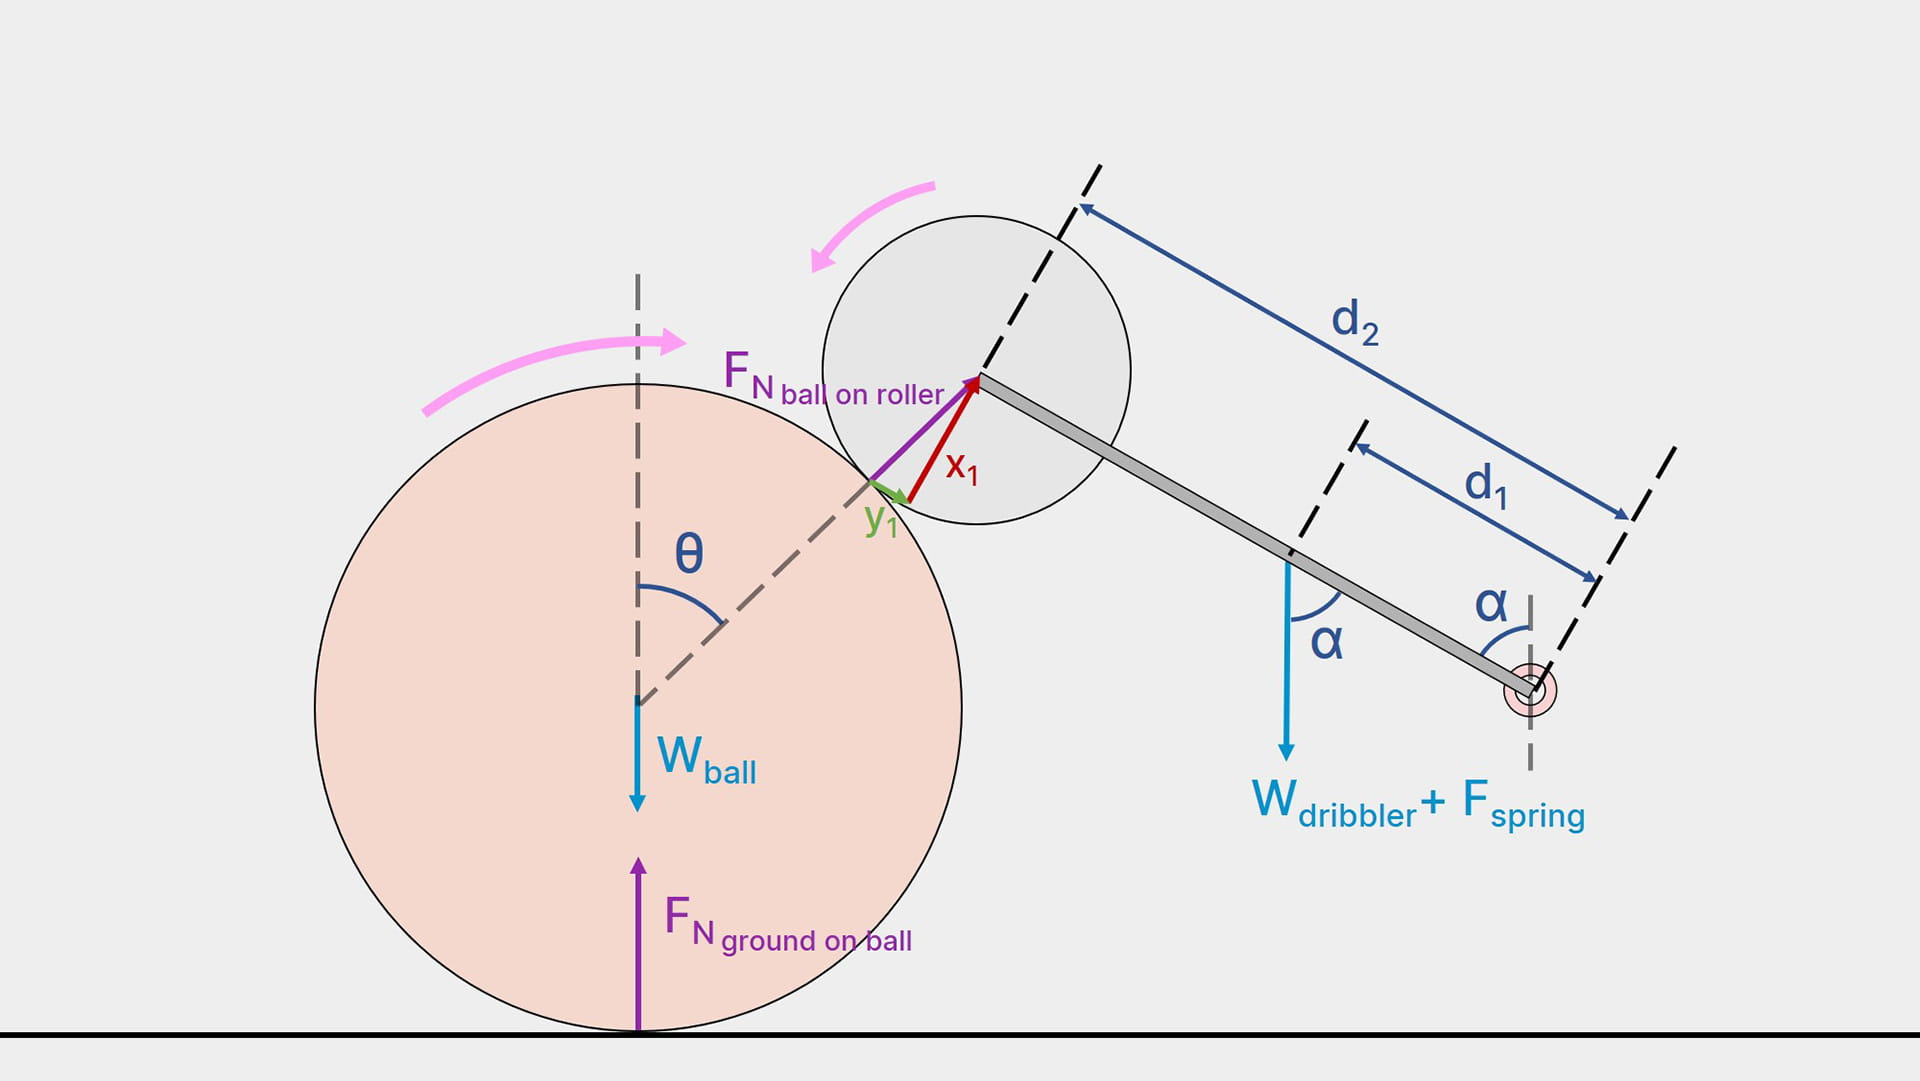
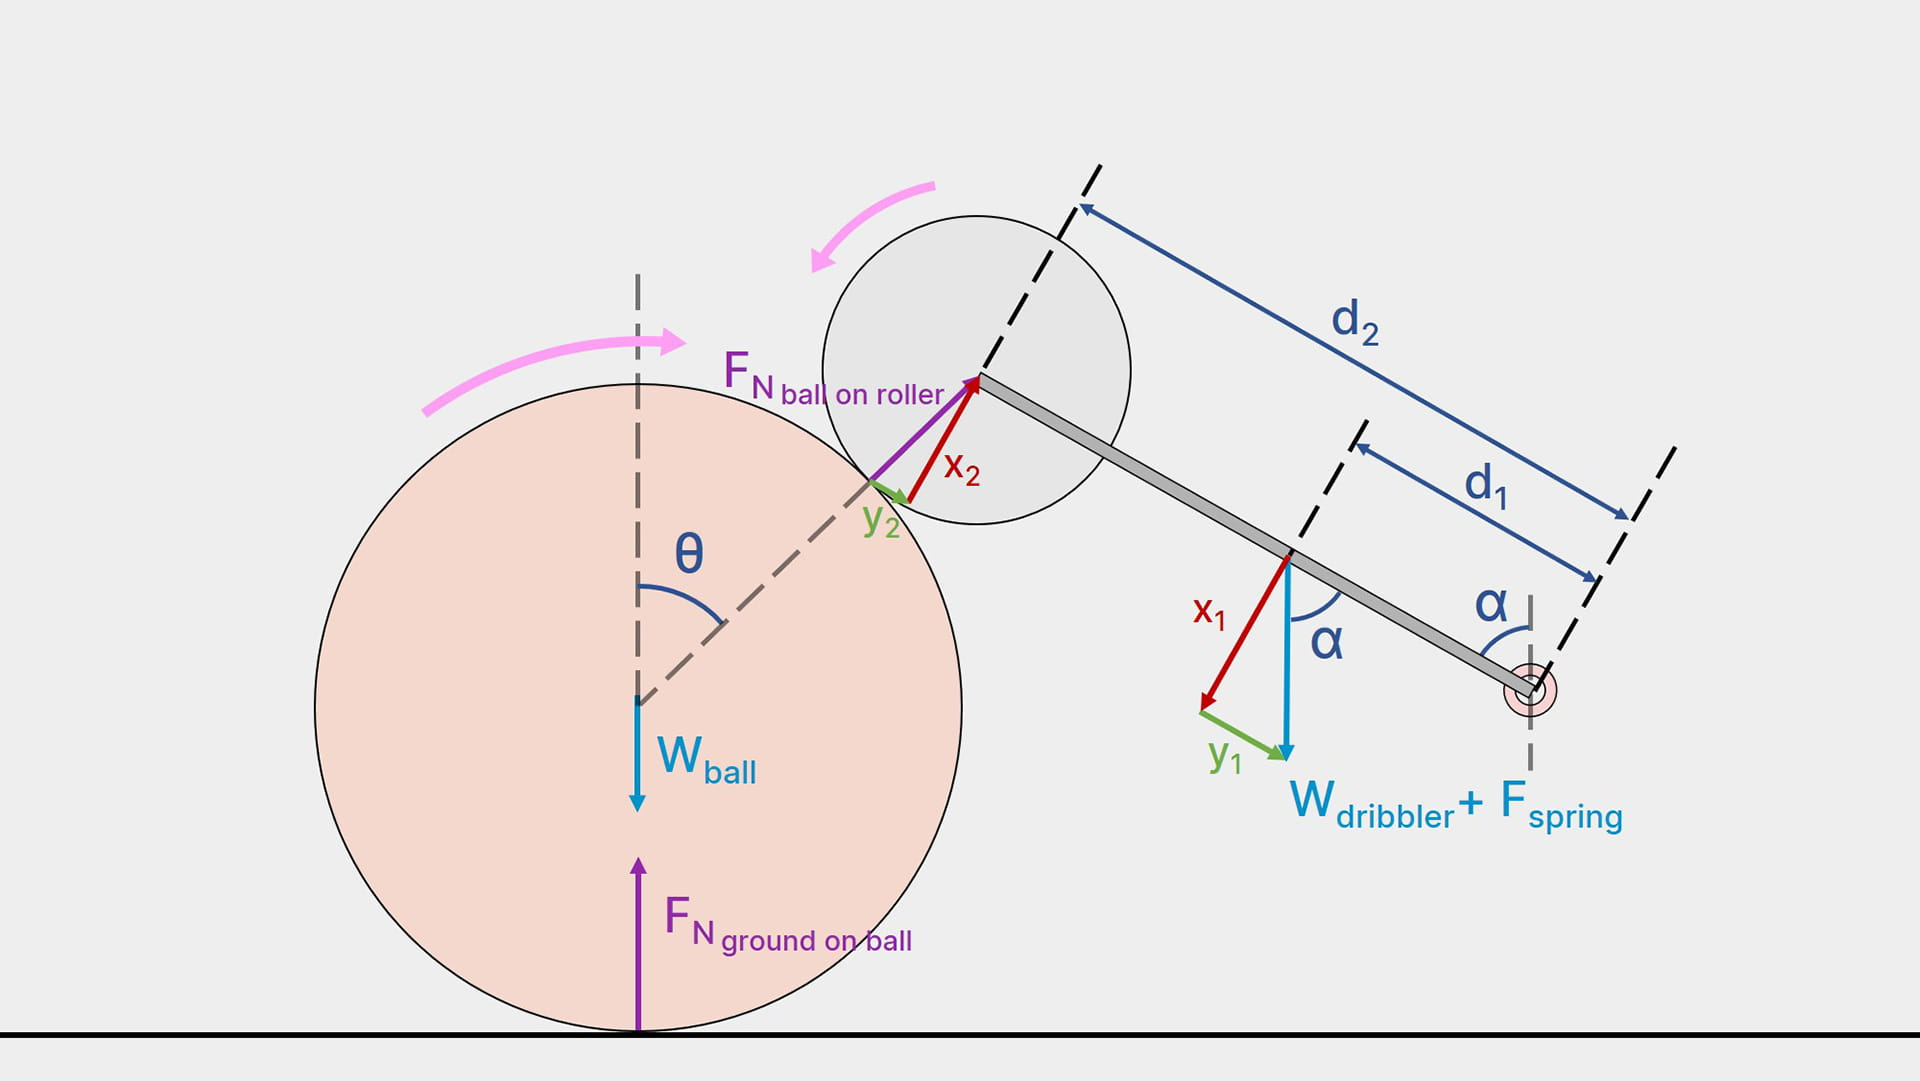
wrote dribbler + fixed math/accordion

diff --git a/assets/css/main.scss b/assets/css/main.scss
@@ -74,6 +74,9 @@ h5,
 h6 {
   font-weight: 600;
 }
+h3 {
+  font-size: 1.125rem;
+}
 blockquote {
   margin: 1em 1em 1em 0;
 }
@@ -174,11 +177,18 @@ input:checked {
     + .tab-label {
         &::before {
             transform: rotate(90deg);
-            margin-top: 0.2em;
+            margin-top: 0.25em;
         }
     }
     ~ .tab-content {
-        max-height: 100vh;
+        max-height: 10000vh;
     }
+}
+
+/* Katex rendering */
+span.katex {
+    display: block;
+    text-align: center;
+    margin-bottom: 1em;
 }
   

diff --git a/_includes/head/custom.html b/_includes/head/custom.html
@@ -27,9 +27,7 @@
 {% assign highlight = false %}
 {% endif %}
 
-{% if page.math %}
 <link rel="stylesheet" href="https://cdn.jsdelivr.net/npm/katex@0.11.1/dist/katex.min.css" integrity="sha384-zB1R0rpPzHqg7Kpt0Aljp8JPLqbXI3bhnPWROx27a9N0Ll6ZP/+DiW/UqRcLbRjq" crossorigin="anonymous">
-{% endif %}
 
 <!-- insert favicons. use https://realfavicongenerator.net/ -->
 <link rel="icon" href="/assets/images/eagle ver 2.1.3.1-lowres.jpg">

diff --git a/_open/02.4-open-dribbler.md b/_open/02.4-open-dribbler.md
@@ -73,7 +73,7 @@ A dribbler works by having a fast moving roller that imparts backspin on the bal
 
 {% include gallery id="gallery1a" caption="Free Body Diagram of our dribbler" layout="single" %}
 
-This is free body diagram of a dribbler during an initial state of contact, assuming no objects are moving. By analysing this, we can find out the effect of changing specific aspects of the dribbler.
+This is a simplified free body diagram of a dribbler. The dribbler module is condensed into a simple lever system and the force of the spring is assumed to come from the same point as the dribbler's weight for easier calculations. To understand the effect of changing specific aspects of the dribbler intuitively with minimal math, read on; otherwise, here's the mathematical approach to this.
 
 ### Roller Position 
 
@@ -83,22 +83,11 @@ The angle of the dribbler's rollers relative to the ball (value of θ) directly 
 
 {% include gallery id="gallery1c" caption="FBD when θ is small (high roller position)" layout="single" %}
 
-If the value of θ is smaller (rollers are positioned higher up the ball), assuming the pivot angle, α, remains the same, the normal contact force between the ball and roller, *F<sub>N:ball on roller</sub>*, would increase. This is because if we look at the downwards force created from *W<sub>dribbler</sub>+F<sub>spring</sub>* located at the end of the lever (blue arrow), the magnitude of the component parallel to *F<sub>N:ball on roller</sub>* (red arrow, *x<sub>1</sub>*) increases.
+If the value of *θ* is smaller (rollers are positioned higher up the ball), assuming the pivot angle, α, remains the same, the normal contact force between the ball and roller, *F<sub>N:ball on roller</sub>*, would increase. This is because if we look at the component of *W<sub>dribbler</sub>+F<sub>spring</sub>* that is perpendicular to the lever (red arrow, *x<sub>1,</sub>*), the magnitude of the corresponding component at the end of the lever (red arrow, *x<sub>2</sub>*) increases too.
 
-When *F<sub>N:ball on roller</sub>* increases, *F<sub>N:ground on ball</sub>* increases too. Hence, the friction between the ball and ground, *F<sub>S:ground on ball</sub>*, will become larger. Thus, the higher the rollers are, the greater the backwards force generated into pushing the ball into the catchment area. However, the larger friction between the ball and ground also means more torque will be required to spin the ball i.e. it becomes harder to spin the ball.
+When *F<sub>N:ball on roller</sub>* increases, *F<sub>N:ground on ball</sub>* increases too since there is more force pushing the ball downwards. Hence, the friction between the ball and ground, *F<sub>S:ground on ball</sub>*, will become larger. This means that the higher the rollers are, the greater the backwards force generated into pushing the ball into the catchment area. However, the larger friction between the ball and ground also means more torque will be required to spin the ball i.e. it becomes harder to spin the ball.
 
-The torque needed to spin the ball becomes "too much" when the magnitude of F<sub>S:ground on ball</sub> is larger than F<sub>S:roller on ball</sub>, since the friction from the ground that opposes the backspin of the ball is larger than the frction between the roller and ball. In such a case, the dribbler rollers will slip along the ball's surface.
-
-<div class="tabs">
-  <div class="tab">
-    <input type="checkbox" id="chck1">
-    <label class="tab-label" for="chck1">More math</label>
-    <div class="tab-content">
-      <br>
-      <p>Lorem ipsum dolor sit amet consectetur, adipisicing elit. Ipsum, reiciendis!</p>
-    </div>
-  </div>
-</div>
+The torque needed to spin the ball becomes "too much" when the magnitude of F<sub>S:ground on ball</sub> is larger than F<sub>S:roller on ball</sub>, since the friction from the ground that opposes the backspin of the ball is larger than the frction between the roller and ball. In such a case, the ball will become jammed and not spin, while the dribbler rollers will slip along the ball's surface.
 
 >Factor 1: The higher the roller is on the ball, the stronger it can hold onto the ball, but the harder it is for the ball to spin.
 
@@ -110,9 +99,9 @@ The height of the pivot point's position determines how well the dribbler can ab
 
 {% include gallery id="gallery2b" caption="FBD when pivot point is higher" %}
 
-The higher the pivot point, the harder it is for the incoming ball to lift the dribbler up. This is because the component that is perpendicular to *F<sub>N:ball on roller</sub>*, the red arrow, *x<sub>1</sub>*, becomes smaller. 
+The higher the pivot point, the harder it is for the incoming ball to lift the dribbler up. This is because the component that is perpendicular to the lever, the red arrow, *x<sub>2</sub>*, becomes smaller. 
 
-Also, the dribbler becomes less capable of absorbing the ball's impact since a larger proportion of *F<sub>N:ball on roller</sub>* is directed along the length of the dribbler (green arrow, *y<sub>1</sub>*), which is rigid, and would produce an equal and opposite reaction force that pushes the ball outwards.
+Also, the dribbler becomes less capable of absorbing the ball's impact since a larger proportion of *F<sub>N:ball on roller</sub>* is directed along the length of the dribbler (green arrow, *y<sub>2</sub>*), which is rigid, and would produce an equal and opposite reaction force that pushes the ball outwards.
 
 >Factor 2: The higher the pivot point, the harder it is to tilt the dribbler and the worse it is at absorbing impacts.
 
@@ -142,20 +131,6 @@ This should be quite intuitive. Regardless whether the spring is pushing the dri
 
 The necessity of the spring comes from it being able to provide an increasing downwards force the more the ball pushes into the dribbler module, thus ensuring that the rollers maintain contact with the ball.
 
-<div class="tabs">
-  <div class="tab">
-    <input type="checkbox" id="chck2">
-    <label class="tab-label" for="chck2">Physics concepts</label>
-    <div class="tab-content">
-      <br>
-      <p>Hooke's Law states that <em>F<sub>spring</sub> = -kx</em>, where <em>F<sub>spring</sub></em> is the restoring force, <em>k</em> is the spring constant, and <em>x</em> is the displacement of the spring after it is stretched/compressed.</p>
-      <p>Since <em>F<sub>spring</sub></em> is directly proportional to <em>k</em> and <em>x</em>, as the stiffness of the spring increases (as the value of <em>k</em> increases), the magnitude of <em>F<sub>spring</sub></em> increases linearly.</p>
-      <p>Also, as the dribbler is tilted further(as the value of <em>x</em> increases), caused by the ball's backwards force into the catchment area, the magnitude of <em>F<sub>spring</sub></em> increases linearly, opposing the force of the incoming ball and reducing its acceleration.</p>
-      <hr style="margin:0">
-    </div>
-  </div>
-</div>
-
 >Factor 4: The stiffer the spring, the harder it is to tilt the dribbler, but the stronger the adhesion between rollers and the ball when the ball is in a stable dribbling state.
 
 ### Ideal Dribbler
@@ -169,6 +144,55 @@ Based on the 4 key factors above, here is the design process for an ideal dribbl
 5. Place a spring of appropriate length such that it is mildly stretched/compressed when the dribbler is at rest, so that it provides a small constant downwards force on the dribbler, keeping it level.
 6. Tune the spring strength until it is strong enough that it can push/pull the dribbler down to keep the rollers in contact with the ball at all times, but weak enough that the
 
+<div class="tabs">
+  <div class="tab">
+    <input type="checkbox" id="chck1">
+    <label class="tab-label" for="chck1"><h3 id="mathematical-approach" style="margin-top:0">Mathematical Approach</h3></label>
+    <div class="tab-content" markdown="span">
+      Assume the dribbler is dribbling the ball in a state of dynamic equilibrium, the clockwise moments will equal the anti-clockwise moments about the pivot.
+      <br><br>
+      $$x_{1}=(W_{dribbler}+F_{spring}) \sin \alpha$$
+      $$x_2\cdot d_2=-x_1\cdot d_1$$
+      $$\begin{aligned}x_2=-\frac{(W_{dribbler}+F_{spring}) \sin \alpha\cdot d_1}{d_2}\end{aligned}$$
+      $$\begin{aligned}
+        F_{N_1}&=\frac{x_2}{\sin (\theta+\alpha-90)} \\
+        &=-\frac{(W_{dribbler}+F_{spring}) \sin \alpha\cdot d_1}{\sin (\theta+\alpha-90)\cdot d_2} \\
+        &=\frac{(W_{dribbler}+F_{spring}) \sin \alpha\cdot d_1}{\cos (\theta+\alpha)\cdot d_2}
+      \end{aligned}$$
+      Hence, supposing that *θ* and *α* are acute angles, they should both sum up to as close to 90 degrees as possible in order to maximise the normal contact force between the ball and rollers. 
+      This can be done by modifying the [roller position](#roller-position) (changes *θ*) or the [pivot height](#pivot-height) (changes *α*).
+      <br><br>
+      $$\begin{aligned}F_{S_1}=\mu_1 \cdot F_{N_1}\end{aligned}$$
+      where *μ<sub>1</sub>* is the rolling friction coefficient between the roller and ball (if the ball was stationary this would be the static friction coefficient). <br>
+      To maximise this coefficient, the roller needs to be rough and possibly slightly sticky to increase adhesion.
+      <br><br>
+      $$\begin{aligned}
+        F_{N_2}&=W_{ball}+F_{N_1}\cos \theta \\
+        F_{S_2}&=\mu_2 \cdot F_{N_2} 
+      \end{aligned}$$
+      It is clear that as *θ* decreases, cos *θ* approaches 1. Therefore, the higher up the ball the rollers are, the larger the normal force between the ground and ball, and the larger the friction between the ground and ball. <br>
+      Also, *μ<sub>2</sub>* is the coefficient of sliding friction between the ground and ball (similar to *μ<sub>1</sub>*, if the ball was stationary this would be the static friction coefficient instead). This should remain largely constant throughout the match.
+      <br><br>
+      For the ball to start spinning, the clockwise moment about the ball's centre, created by the rollers, must be larger than the anti-clockwise moment, created by the ground friction.
+      <br><br>
+      $$\begin{aligned}
+        F_{S_1}\cdot r_{ball} &> F_{S_2}\cdot r_{ball} \\
+        \mu_1 \cdot F_{N_1} &> \mu_2 \cdot F_{N_2} \\
+        &> \mu_2 \cdot (W_{ball}+F_{N_1}\cos \theta)
+      \end{aligned}$$
+      Evidently, as *θ* decreases, the anti-clockwise moment (R.H.S.) increases significantly. If the anti-clockwise moment becomes greater than the clockwise moment, then the ball will end up jammed into the dribbler without spinning, with the rollers slipping on the ball.
+      <br><br>
+      In addition, the spring is used to absorb impacts. Assuming the spring used is a linear rate spring, Hooke's Law applies,
+      <br><br>
+      $$\begin{aligned}F_{spring}=-kx\end{aligned}$$
+      where *F<sub>spring</sub>* is the restoring force, *k* is the spring constant, and *x* is the displacement of the spring after it is stretched/compressed. This means that *F<sub>spring</sub>* is directly proportional to *k* and *x*.
+      <br><br>
+      Hence, as the stiffness of the spring (value of *k*) increases , the magnitude of *F<sub>spring</sub>* increases linearly.
+      Also, as the dribbler is tilted further(as the value of *x* increases), caused by the ball's backwards force into the catchment area, the magnitude of <em>F<sub>spring</sub></em> increases linearly, opposing the force of the incoming ball and reducing its acceleration.
+    </div>
+  </div>
+</div>
+
 ## Powertrain
 
 {% include figure image_path="/assets/images/powertrain.jpg" alt="Powertrain" caption="Dribbler's powertrain" %}
@@ -181,7 +205,7 @@ The motor we used is a 820 kV (RPM per volt) [brushless motor](https://item.taob
 
 The motor also has one of its 4 legs on the cross shaped mount sawed off to prevent it from hitting the roller in front.
 
-{% include figure image_path="/assets/images/dummy_16-9.jpg" alt="Motor mount cut" caption="Bottom leg of mount sawed off" %}
+{% include figure image_path="/assets/images/dribbler-motor-sawed-leg.jpg" alt="Motor mount cut" caption="Bottom leg of mount sawed off" %}
 
 ### Coupler
 
@@ -296,7 +320,7 @@ Adding the ramp fixed this problem since it redirected most of the backwards for
 
 This piece also doubles up as a light gate with holders for the LED and LDR as well as tiny holes for the legs to fit through and be soldered directly to the PCB's through hole pads located underneath. (In hindsight, this isn't that great of an idea since the 3D printed piece has to be semi-permanently stuck to the PCB unless the LED and LDR are desoldered... possible [AFI](#sike) here)
 
-INSERT THAT IMAGE HERE
+{% include figure image_path="/assets/images/light-gate-LED.jpg" alt="LED of light gate" caption="LED soldered through light gate mount" %}
 
 ### Bearings
 
